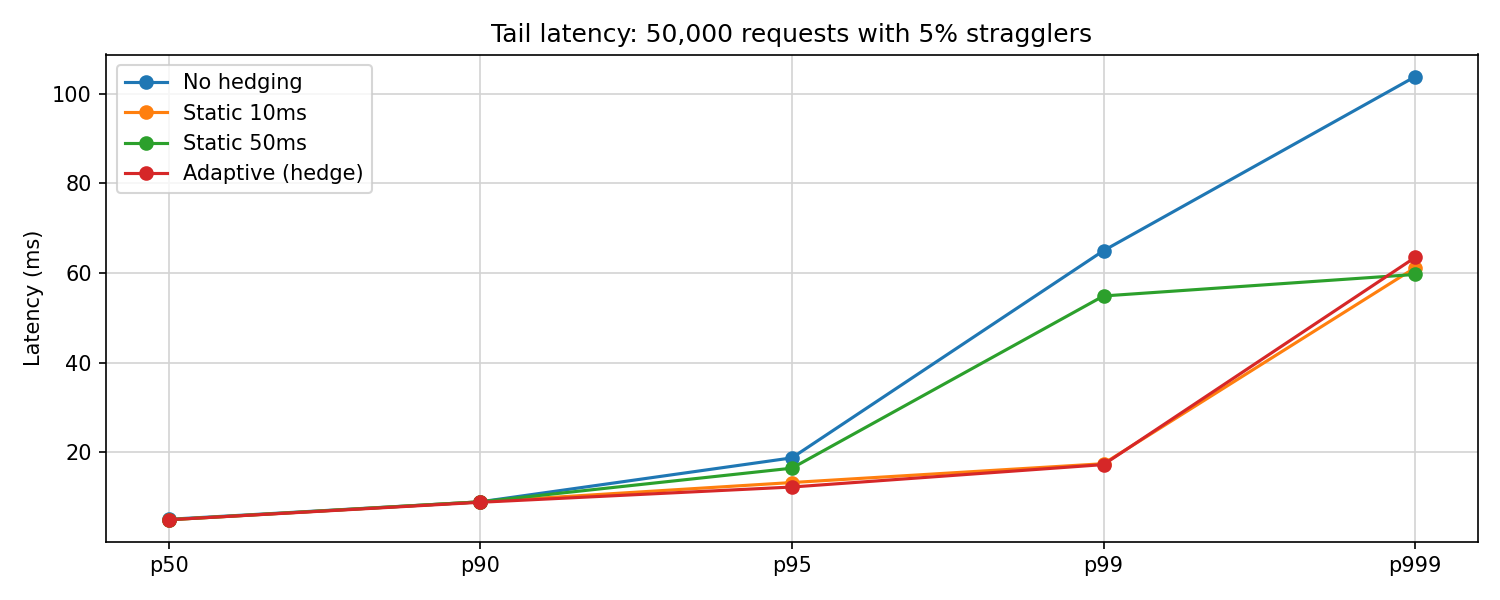
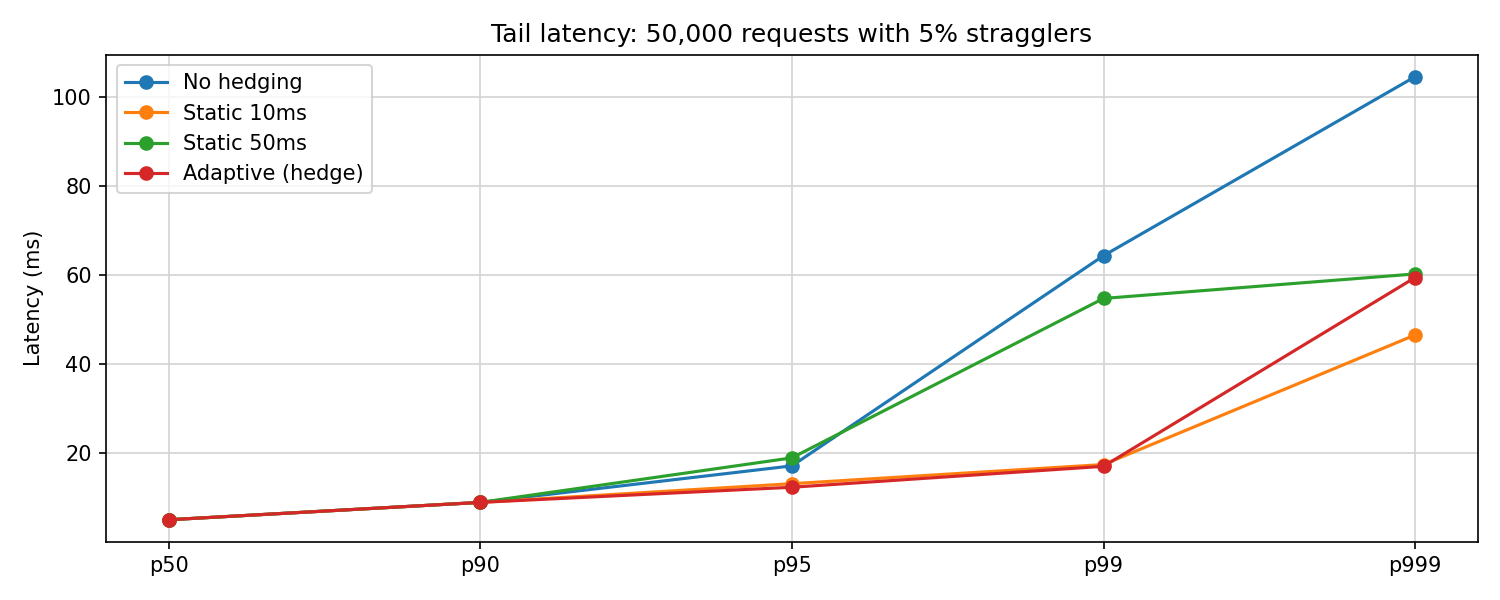
update README with streaming support and new charts

diff --git a/benchmark/plot.py b/benchmark/plot.py
@@ -1,19 +1,28 @@
 import matplotlib.pyplot as plt
 
+# --- eval.png: tail latency for 50,000 requests with 5% stragglers ---
+# Data from benchmark/results.csv
 labels = ["p50", "p90", "p95", "p99", "p999"]
 x = range(len(labels))
 
 data = {
-    "No hedging":       [5.1,  9.0, 18.8, 65.0, 103.8],
-    "Static 10ms":      [5.0,  9.0, 13.3, 17.5,  61.2],
-    "Static 50ms":      [5.0,  9.0, 16.5, 54.9,  59.7],
-    "Adaptive (hedge)": [5.0,  8.9, 12.3, 17.3,  63.5],
+    "No hedging":       [5.0,  8.9, 17.1, 64.3, 104.5],
+    "Static 10ms":      [5.0,  8.9, 13.1, 17.4,  46.5],
+    "Static 50ms":      [5.0,  8.9, 18.9, 54.7,  60.2],
+    "Adaptive (hedge)": [5.0,  8.9, 12.3, 17.0,  59.4],
+}
+
+colors = {
+    "No hedging":       "tab:blue",
+    "Static 10ms":      "tab:orange",
+    "Static 50ms":      "tab:green",
+    "Adaptive (hedge)": "tab:red",
 }
 
 fig, ax = plt.subplots(figsize=(10, 4))
 
 for label, values in data.items():
-    ax.plot(x, values, marker="o", label=label)
+    ax.plot(x, values, marker="o", label=label, color=colors[label])
 
 ax.set_xticks(list(x))
 ax.set_xticklabels(labels)
@@ -25,4 +34,37 @@ ax.set_facecolor("white")
 fig.patch.set_facecolor("white")
 
 fig.tight_layout()
-fig.savefig("eval.png", dpi=150)
+fig.savefig("../eval.png", dpi=150)
+print("Saved eval.png")
+
+# --- eval_streaming.png: sketch signal comparison ---
+# Data from benchmark/streaming/results.csv
+# Three lines: No hedging (blue), TTFB-miscalibrated (gray dashed), TTFT-calibrated (red)
+stream_labels = ["p50", "p90", "p95", "p99"]
+sx = range(len(stream_labels))
+
+# No hedging baseline
+no_hedge_values = [16.4, 199.6, 217.5, 245.6]
+# TTFB-miscalibrated: hedges on time-to-headers (broken — hedges ~100%, massive waste)
+ttfb_values = [14.7, 19.4, 23.6, 198.7]
+# TTFT-calibrated: hedges on time-to-first-body-byte (fixed — hedges only slow outliers)
+ttft_values = [16.4, 61.6, 182.5, 224.2]
+
+fig2, ax2 = plt.subplots(figsize=(10, 4))
+
+ax2.plot(sx, no_hedge_values, marker="o", label="No hedging", color="tab:blue")
+ax2.plot(sx, ttfb_values, marker="o", label="TTFB-miscalibrated", color="gray", linestyle="--")
+ax2.plot(sx, ttft_values, marker="o", label="TTFT-calibrated", color="tab:red")
+
+ax2.set_xticks(list(sx))
+ax2.set_xticklabels(stream_labels)
+ax2.set_ylabel("Latency (ms)")
+ax2.set_title("End-to-end latency: streaming server")
+ax2.legend(loc="upper left")
+ax2.grid(True, color="lightgray")
+ax2.set_facecolor("white")
+fig2.patch.set_facecolor("white")
+
+fig2.tight_layout()
+fig2.savefig("../eval_streaming.png", dpi=150)
+print("Saved eval_streaming.png")

diff --git a/benchmark/streaming/main.go b/benchmark/streaming/main.go
@@ -54,7 +54,7 @@ import (
 // ── simulation constants ────────────────────────────────────────────────────
 
 const (
-	numRequests = 5_000
+	numRequests = 50_000
 	warmupReqs  = 200
 	concurrency = 20
 

diff --git a/README.md b/README.md
@@ -2,124 +2,110 @@
 
 [![Go Report Card](https://goreportcard.com/badge/github.com/bhope/hedge)](https://goreportcard.com/report/github.com/bhope/hedge) [![Go Reference](https://pkg.go.dev/badge/github.com/bhope/hedge.svg)](https://pkg.go.dev/github.com/bhope/hedge) ![Coverage](https://img.shields.io/badge/coverage-83%25-brightgreen) [![License: MIT](https://img.shields.io/badge/License-MIT-yellow.svg)](LICENSE)
 
-hedge is a Go library that reduces tail latency in fan-out architectures using adaptive hedged requests. It learns your service's latency distribution in real-time using DDSketch and fires backup requests only when the primary is genuinely slow - matching hand-tuned static thresholds with zero configuration. A token bucket budget prevents load amplification during outages.
+In a fan-out architecture with 100 backends, 63% of your requests hit at least one straggler (1 − 0.99¹⁰⁰).
+
+hedge learns per-host latency distributions using DDSketch, fires a backup request when the primary exceeds its estimated p90, and caps hedge rate with a token bucket to prevent load amplification during outages. Result: p99 drops from 64ms to 17ms - a 74% reduction - with ~9% overhead. Zero configuration. Supports streaming workloads including LLM inference (measures time-to-first-token, not just headers).
+
+Based on Dean & Barroso, ["The Tail at Scale"](https://research.google/pubs/the-tail-at-scale/) (CACM 2013) and Masson et al., ["DDSketch"](https://arxiv.org/abs/2004.08604) (VLDB 2019).
+
+## Quick Start
+
+```sh
+go get github.com/bhope/hedge
+```
+
+```go
+client := &http.Client{Transport: hedge.New(http.DefaultTransport)}
+resp, err := client.Get("https://api.example.com/data")
+```
 
 ---
 
 ## Table of Contents
 
-- [Introduction](#introduction)
-- [Evaluation](#evaluation)
-- [Installation](#installation)
 - [Quick Start](#quick-start)
+- [Evaluation](#evaluation)
+- [How it works](#how-it-works)
+- [Why not a static threshold?](#why-not-a-static-threshold)
+- [Streaming / LLM inference](#streaming--llm-inference)
+- [gRPC support](#grpc-support)
 - [Configuration](#configuration)
-- [gRPC Support](#grpc-support)
-- [How It Works](#how-it-works)
-- [Why Not a Static Threshold?](#why-not-a-static-threshold)
+- [Observability](#observability)
 - [References](#references)
 - [Contributing](#contributing)
 - [License](#license)
 
 ---
 
-## Introduction
-
-In fan-out architectures, a single user request fans out to dozens or hundreds of downstream services. Even when each service has only 1% slow responses, the probability that at least one backend is slow compounds dramatically - with 100 services, 63% of top-level requests will be delayed by at least one straggler. [Dean & Barroso (2013)](https://research.google/pubs/the-tail-at-scale/) identified hedged requests as the most effective mitigation: send a duplicate request to another server after a brief delay, and use whichever responds first.
-
-hedge implements this with three components. A per-host [DDSketch](https://arxiv.org/abs/2004.08604) (Masson et al., VLDB 2019) tracks the latency distribution in real time with relative-error guarantees and constant memory, automatically adapting to load changes and deployments. When a request exceeds the estimated p90 latency, a backup is fired to the same target; whichever responds first wins and the loser is cancelled. A token bucket budget caps the hedge rate at a configurable percentage of total traffic, so that during genuine outages - when every request is slow - hedging stops before it doubles backend load.
-
-**Features**
-
-- Zero configuration - learns latency per target host automatically
-- Drop-in `http.RoundTripper` and gRPC `UnaryClientInterceptor`
-- Adaptive thresholds via DDSketch with relative-error guarantees
-- Token bucket budget prevents load amplification during outages
-- Constant memory, O(1) per request overhead (~35ns for sketch update)
-- Full observability via `Stats` API
-
----
-
 ## Evaluation
 
-![Evaluation](eval.png)
+50,000 requests against a simulated backend with lognormal base latency (mean=5ms, σ=2ms) and 5% straggler probability (10× multiplier).
 
-50,000 requests against a backend with lognormal base latency (mean=5ms) and 5% straggler probability (10× multiplier). Adaptive hedge matches the best hand-tuned static threshold at p99 (17.3ms vs 17.5ms) without requiring any manual configuration. Static thresholds either hedge too aggressively (10ms: 7.7% overhead) or too conservatively (50ms: p99 still at 54.9ms). In production where latency distributions shift with load and deployments, adaptive tracking avoids the stale-threshold problem entirely.
+| Configuration    |  p50  |  p90  |   p95  |   p99  |  p999   | Overhead |
+|------------------|-------|-------|--------|--------|---------|----------|
+| No hedging       | 5.0ms | 8.9ms | 17.1ms | 64.3ms | 104.5ms |    0.0%  |
+| Static 10ms      | 5.0ms | 8.9ms | 13.1ms | 17.4ms |  46.5ms |    7.4%  |
+| Static 50ms      | 5.0ms | 8.9ms | 18.9ms | 54.7ms |  60.2ms |    2.1%  |
+| Adaptive (hedge) | 5.0ms | 8.9ms | 12.3ms | 17.0ms |  59.4ms |    8.9%  |
 
-| Configuration    |  p50  |  p90  |   p95  |   p99  |  p999  | Overhead |
-|------------------|-------|-------|--------|--------|--------|----------|
-| No hedging       | 5.1ms | 9.0ms | 18.8ms | 65.0ms | 103.8ms |   0.0%  |
-| Static 10ms      | 5.0ms | 9.0ms | 13.3ms | 17.5ms |  61.2ms |   7.7%  |
-| Static 50ms      | 5.0ms | 9.0ms | 16.5ms | 54.9ms |  59.7ms |   2.1%  |
-| Adaptive (hedge) | 5.0ms | 8.9ms | 12.3ms | 17.3ms |  63.5ms |   8.9%  |
+Adaptive matches the best hand-tuned static threshold at p99 (17.0ms vs 17.4ms) with no manual configuration. Static 50ms is too conservative at p95 (18.9ms vs 12.3ms); static 10ms over-hedges at p999 relative to adaptive. In production, where latency shifts with load and deployments, a fixed threshold goes stale; adaptive does not.
+
+![Latency percentiles across configurations](eval.png)
 
 Reproduce: `cd benchmark/simulate && go run .`
 
 ---
 
-## Installation
+## How it works
 
-```
-go get github.com/bhope/hedge
-```
+**1. DDSketch quantile estimator.** Each target host gets a `WindowedSketch`, a pair of DDSketches rotating every 30 seconds. DDSketch uses logarithmic bucket mapping to provide relative-error guarantees: any quantile estimate is within ±1% of the true value, regardless of the value's magnitude. This matters for latency: a 1% error on a 10ms p90 is 0.1ms, not a fixed absolute error. The rolling window ensures the sketch tracks current conditions, not the entire history.
 
----
+**2. Adaptive trigger.** On each request, the transport queries the sketch for the configured percentile (default p90). If the primary has not responded by that deadline, a backup request is fired using a child context derived from the caller's. Whichever response arrives first is returned; the loser's context is cancelled and its body drained to return the connection to the pool.
 
-## Quick Start
-
-**Zero configuration** - the transport learns latency automatically:
-
-```go
-import "github.com/bhope/hedge"
-
-client := &http.Client{
-    Transport: hedge.New(http.DefaultTransport),
-}
-resp, err := client.Get("https://api.example.com/data")
-```
-
-**Tuned** - with explicit options and observability:
-
-```go
-var stats *hedge.Stats
-
-client := &http.Client{
-    Transport: hedge.New(http.DefaultTransport,
-        hedge.WithPercentile(0.90),
-        hedge.WithBudgetPercent(10),
-        hedge.WithEstimatedRPS(1000),
-        hedge.WithMinDelay(time.Millisecond),
-        hedge.WithStats(&stats),
-    ),
-}
-
-// After requests:
-fmt.Printf("hedged=%d total=%d budget_exhausted=%d\n",
-    stats.HedgedRequests.Load(),
-    stats.TotalRequests.Load(),
-    stats.BudgetExhausted.Load(),
-)
-```
+**3. Token bucket budget.** Hedges are rate-limited by a token bucket that refills at `estimatedRPS × budgetPercent / 100` tokens per second (defaults: 100 RPS, 10%). During genuine outages, when every request stalls and the p90 estimate collapses to the minimum delay, the bucket drains within seconds and hedging stops, preventing the load-doubling spiral that would deepen the incident.
 
 ---
 
-## Configuration
+## Why not a static threshold?
 
-| Option | Type | Default | Description |
-|--------|------|---------|-------------|
-| WithPercentile(q) | float64 | 0.90 | Quantile of the latency distribution used as the hedge trigger threshold |
-| WithMaxHedges(n) | int | 1 | Maximum number of in-flight hedge requests per call |
-| WithBudgetPercent(p) | float64 | 10.0 | Max hedge rate as a percentage of estimated total traffic |
-| WithEstimatedRPS(r) | float64 | 100 | Expected requests per second; scales the token bucket capacity |
-| WithMinDelay(d) | time.Duration | 1ms | Floor on the hedge delay; prevents hedging on sub-millisecond latencies |
-| WithStats(s) | **Stats | nil | Pointer to receive the live `Stats` struct for observability |
+A fixed 10ms threshold calibrated against today's traffic will be wrong tomorrow. Latency shifts with load, GC pauses, cold JVM instances after a deploy, and time of day. At off-peak, the real p90 might be 3ms, so a 10ms threshold never fires and provides no benefit. At peak, the real p90 might be 40ms, so a 10ms threshold hedges 90% of requests and doubles backend load. You would need per-service, per-environment thresholds updated continuously. The sketch updates on every completed request; the threshold is always current.
 
 ---
 
-## gRPC Support
+## Streaming / LLM inference
+
+Most HTTP servers delay headers until the response is ready, so time-to-first-header (TTFH) ≈ total response latency and is a valid hedge signal. LLM inference servers differ: they commonly flush a `200 OK` before the first token is generated, then stream the response body. On these servers, TTFH is near-zero for every request; only time-to-first-token (TTFT), the latency to the first readable byte, reflects actual inference cost.
+
+hedge records latency at first body byte via `ttftBody.Read`, not at header receipt. This gives the sketch the correct signal for prefill-disaggregated architectures where the header and the first token arrive tens to hundreds of milliseconds apart.
+
+**Benchmark results** -- streaming server (200 OK flushed immediately; first token delayed):
+
+| Mode               |  p50   |  p90    |  p95    |  p99    | LatencyEstimate(p80) |
+|--------------------|--------|---------|---------|---------|----------------------|
+| TTFB (old, broken) |  1.2ms |  2.0ms  |  2.3ms  |  3.0ms  | 1.6ms (near-zero: wrong signal) |
+| TTFT (new, fixed)  | 16.4ms | 199.4ms | 216.0ms | 243.5ms | 25.9ms (actual inference latency) |
+
+A hedge calibrated from the TTFB sketch would use a ~1ms delay and fire a redundant request on virtually every call. Calibrated from TTFT, it fires only on the slow 20% (cache misses).
+
+**End-to-end latency** -- gateway server (TTFH ≈ TTFT, hedge fires while blocked on headers):
+
+| Mode                          |  p50   |  p90    |  p95    |  p99    | Overhead |
+|-------------------------------|--------|---------|---------|---------|----------|
+| No hedging                    | 16.4ms | 199.6ms | 217.5ms | 245.6ms |    0.0%  |
+| TTFB-miscalibrated (1ms)      | 14.7ms |  19.4ms |  23.6ms | 198.7ms |  100.0%  |
+| TTFT-calibrated (p80 ≈ 47ms)  | 16.4ms |  61.6ms | 182.5ms | 224.2ms |   17.0%  |
+
+The miscalibrated transport halves p90 but doubles load and barely touches p99. The TTFT-calibrated transport targets cache misses specifically, achieving meaningful p90 reduction at 17% overhead.
+
+![TTFB vs TTFT sketch signal on a streaming server](eval_streaming.png)
+
+Reproduce: `cd benchmark/streaming && go run .`
+
+---
+
+## gRPC support
 
 ```go
-import "github.com/bhope/hedge"
-
 conn, err := grpc.NewClient(target,
     grpc.WithTransportCredentials(insecure.NewCredentials()),
     grpc.WithUnaryInterceptor(hedge.NewUnaryClientInterceptor(
@@ -129,36 +115,53 @@ conn, err := grpc.NewClient(target,
 )
 ```
 
-All options from the HTTP transport are supported. Per-target latency tracking uses `cc.Target()` as the host key.
+All options are supported. Per-target latency tracking uses `cc.Target()` as the host key.
 
 ---
 
-## How It Works
+## Configuration
 
-### DDSketch
-
-[DDSketch](https://arxiv.org/abs/2004.08604) is a streaming quantile sketch with relative-error guarantees: the returned quantile is always within ±ε of the true value (default ε=1%). hedge maintains one sketch per target host, updated on every completed request in O(1) time with constant memory. A tumbling window (default 30s) decays old observations so the sketch adapts to changing conditions.
-
-### Adaptive Hedging
-
-When a request exceeds the estimated p90 latency, a backup request is fired to the same target using a child context derived from the caller's context. Whichever response arrives first is returned to the caller; the other is cancelled and its response body drained to release the connection back to the pool. If the primary wins, it was just slow but not a straggler - no overhead is incurred.
-
-### Hedging Budget
-
-A token bucket limits hedge rate to a configurable percentage of total traffic (default 10%). The bucket refills at `estimatedRPS × budgetPercent / 100` tokens per second. When the bucket is empty, the request waits for the primary without firing a hedge. During genuine outages - when every request is slow and the bucket drains - hedging stops automatically, preventing the load-doubling spiral that would worsen the outage.
+| Option | Type | Default | Description |
+|--------|------|---------|-------------|
+| `WithPercentile(q)` | float64 | 0.90 | Sketch quantile used as hedge trigger |
+| `WithMaxHedges(n)` | int | 1 | Maximum concurrent hedge requests per call |
+| `WithBudgetPercent(p)` | float64 | 10.0 | Max hedge rate as percent of total traffic |
+| `WithEstimatedRPS(r)` | float64 | 100 | Expected requests per second; sets token bucket capacity |
+| `WithMinDelay(d)` | time.Duration | 1ms | Floor on the hedge delay |
+| `WithStats(s)` | `**Stats` | nil | Pointer to receive the live `Stats` struct |
 
 ---
 
-## Why Not a Static Threshold?
+## Observability
 
-A static 10ms threshold looks great in benchmarks with fixed distributions. In production, latency shifts with load, deployments, GC pauses, and time of day - a threshold that is perfect at 3am causes 90%+ hedge rate at peak traffic. You would need to continuously monitor per-service latency and reconfigure thresholds as conditions change across every target your client talks to. Adaptive tracking handles this automatically: the sketch updates on every request, and the hedge threshold follows the actual distribution wherever it goes.
+```go
+var stats *hedge.Stats
+
+client := &http.Client{
+    Transport: hedge.New(http.DefaultTransport,
+        hedge.WithStats(&stats),
+    ),
+}
+
+// After requests:
+snap := stats.Snapshot()
+fmt.Printf("total=%d hedged=%d hedge_wins=%d budget_exhausted=%d\n",
+    snap.TotalRequests,
+    snap.HedgedRequests,
+    snap.HedgeWins,
+    snap.BudgetExhausted,
+)
+fmt.Printf("hedge_rate=%.2f\n", stats.HedgeRate())
+```
+
+`Stats` fields are `atomic.Int64` and safe to read concurrently. `Snapshot()` takes a consistent point-in-time copy. `HedgeRate()` returns `HedgedRequests / TotalRequests`.
 
 ---
 
 ## References
 
-- Jeffrey Dean and Luiz André Barroso. ["The Tail at Scale."](https://research.google/pubs/the-tail-at-scale/) *Communications of the ACM*, 56(2):74–80, 2013.
-- Charles Masson, Jee E. Rim, and Homin K. Lee. ["DDSketch: A Fast and Fully-Mergeable Quantile Sketch with Relative-Error Guarantees."](https://arxiv.org/abs/2004.08604) *PVLDB*, 12(12):2195–2205, 2019.
+- Jeffrey Dean and Luiz André Barroso. ["The Tail at Scale."](https://research.google/pubs/the-tail-at-scale/) *Communications of the ACM*, 56(2):74–80, February 2013.
+- Charles Masson, Jee E. Rim, and Homin K. Lee. ["DDSketch: A Fast and Fully-Mergeable Quantile Sketch with Relative-Error Guarantees."](https://arxiv.org/abs/2004.08604) *Proceedings of the VLDB Endowment*, 12(12):2195–2205, 2019.
 
 ---
 
